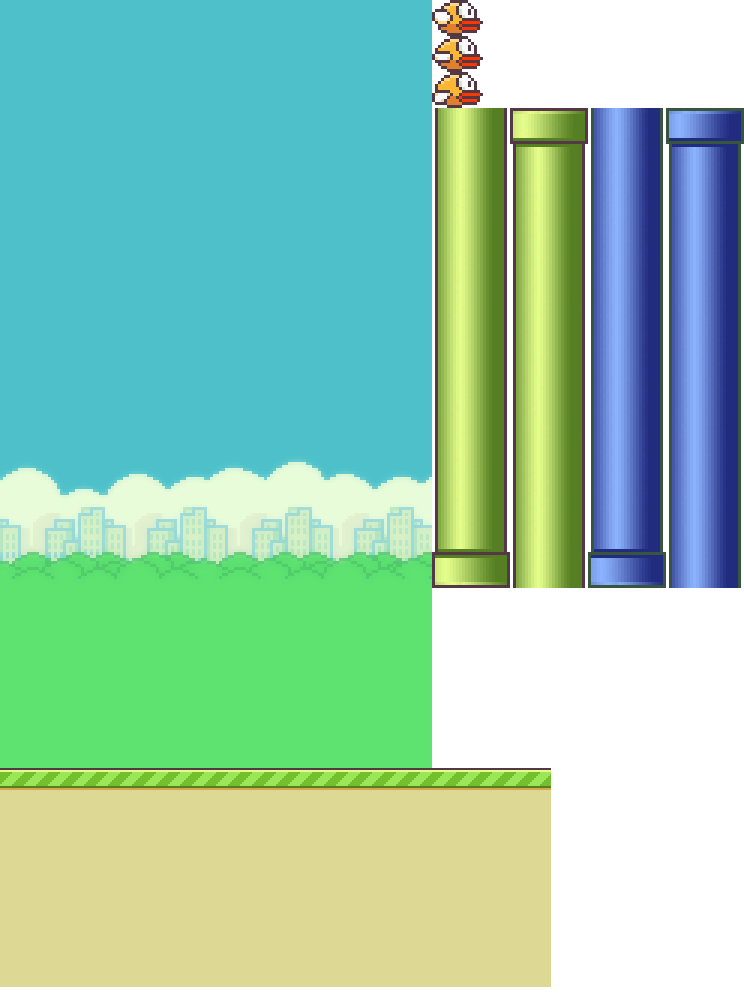
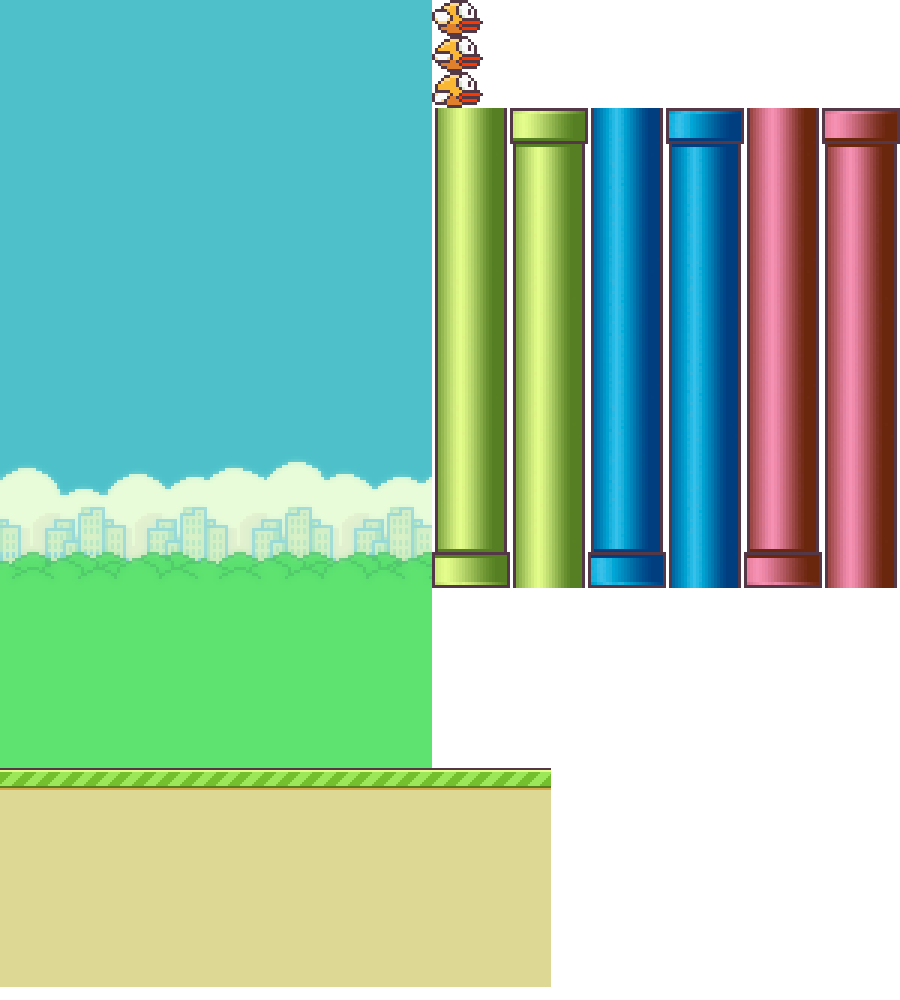
updated sprite sheet

diff --git a/flappy.js b/flappy.js
@@ -46,6 +46,7 @@ const game_objects = {
 		y : 0, 
 		scored : false, 
 		movable : false,
+		type : ["green","blue","red"],
 		inverse_y : 0
 	},
 
@@ -58,6 +59,12 @@ const game_objects = {
 		},
 		
 		blue : {
+			top_pipe : [588,511],
+			btm_pipe : [666,108],
+			stem_pipe : [588,110]
+		},
+		
+		red : {
 			top_pipe : [588,511],
 			btm_pipe : [666,108],
 			stem_pipe : [588,110]
@@ -436,8 +443,7 @@ function level_up() {
 			}
 		}
 		
-		return x;
-		
+		return x;		
 }
 
 
@@ -590,7 +596,7 @@ function start_screen()
 	
 	txt = "Version : " + _VERSION_;
 	ctx.font = "bold 24px courier new";
-	ctx.fillText(txt, 10, 25)
+	ctx.fillText(txt, 10, game.ground.collision - 12)
 }
 
 
@@ -603,11 +609,11 @@ function update_score() {
 	
 	if (game.game.gamePlaying) {
 		let txt = game.game.currentScore;
-		ctx.font = "bold 200px courier new";
+		ctx.font = "bold 150px courier new";
 		ctx.fillStyle = "#553847";
-		ctx.fillText(txt, 40, 175);
+		ctx.fillText(txt, 30, 125);
 		ctx.fillStyle = "#e9fcd9";
-		ctx.fillText(txt, 45, 180);
+		ctx.fillText(txt, 35, 130);
 	}
 	
 }

diff --git a/index.html b/index.html
@@ -1,7 +1,7 @@
   <html>
   <head>
   <link rel="stylesheet" href="style.css">
-  <!--<meta name="viewport" content="width=device-width, initial-scale=1.0, maximum-scale=1.0, user-scalable=no, shrink-to-fit=no">-->
+  <meta name="viewport" content="maximum-scale=1.0, user-scalable=no, shrink-to-fit=no">
   </head>
   
   <header>
